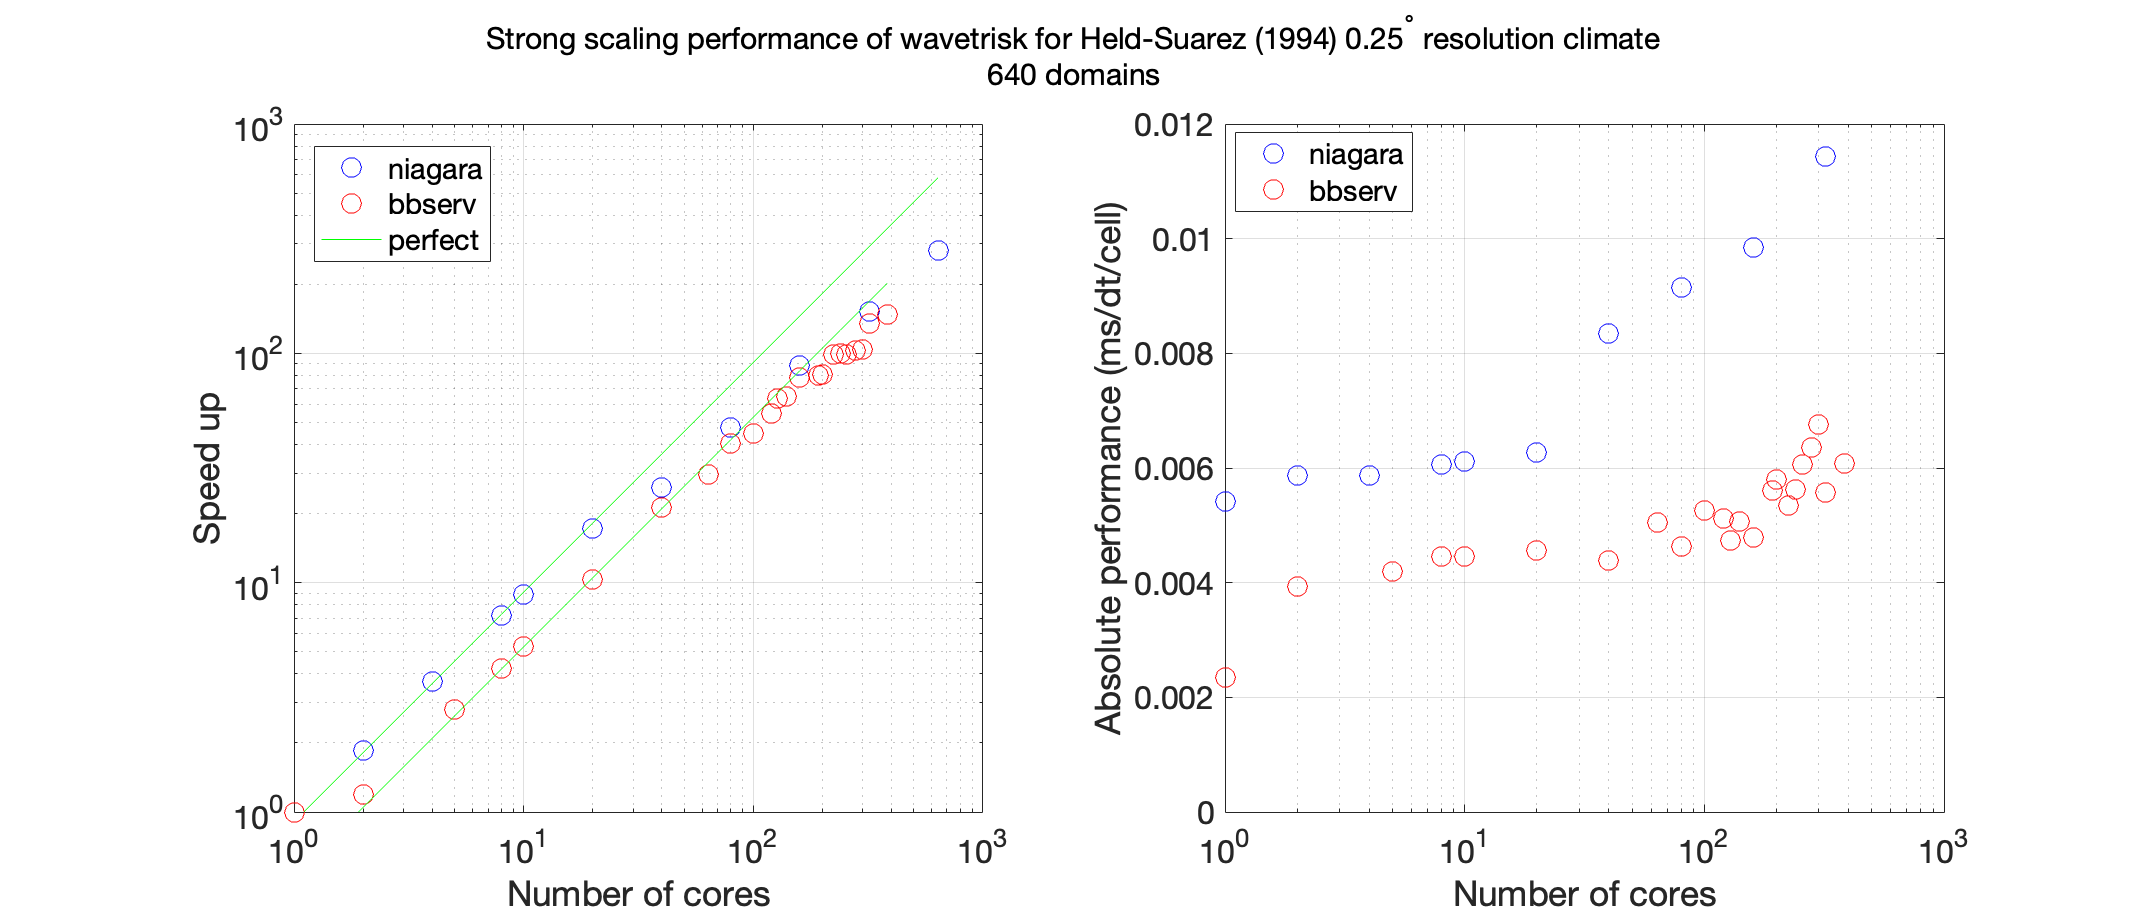
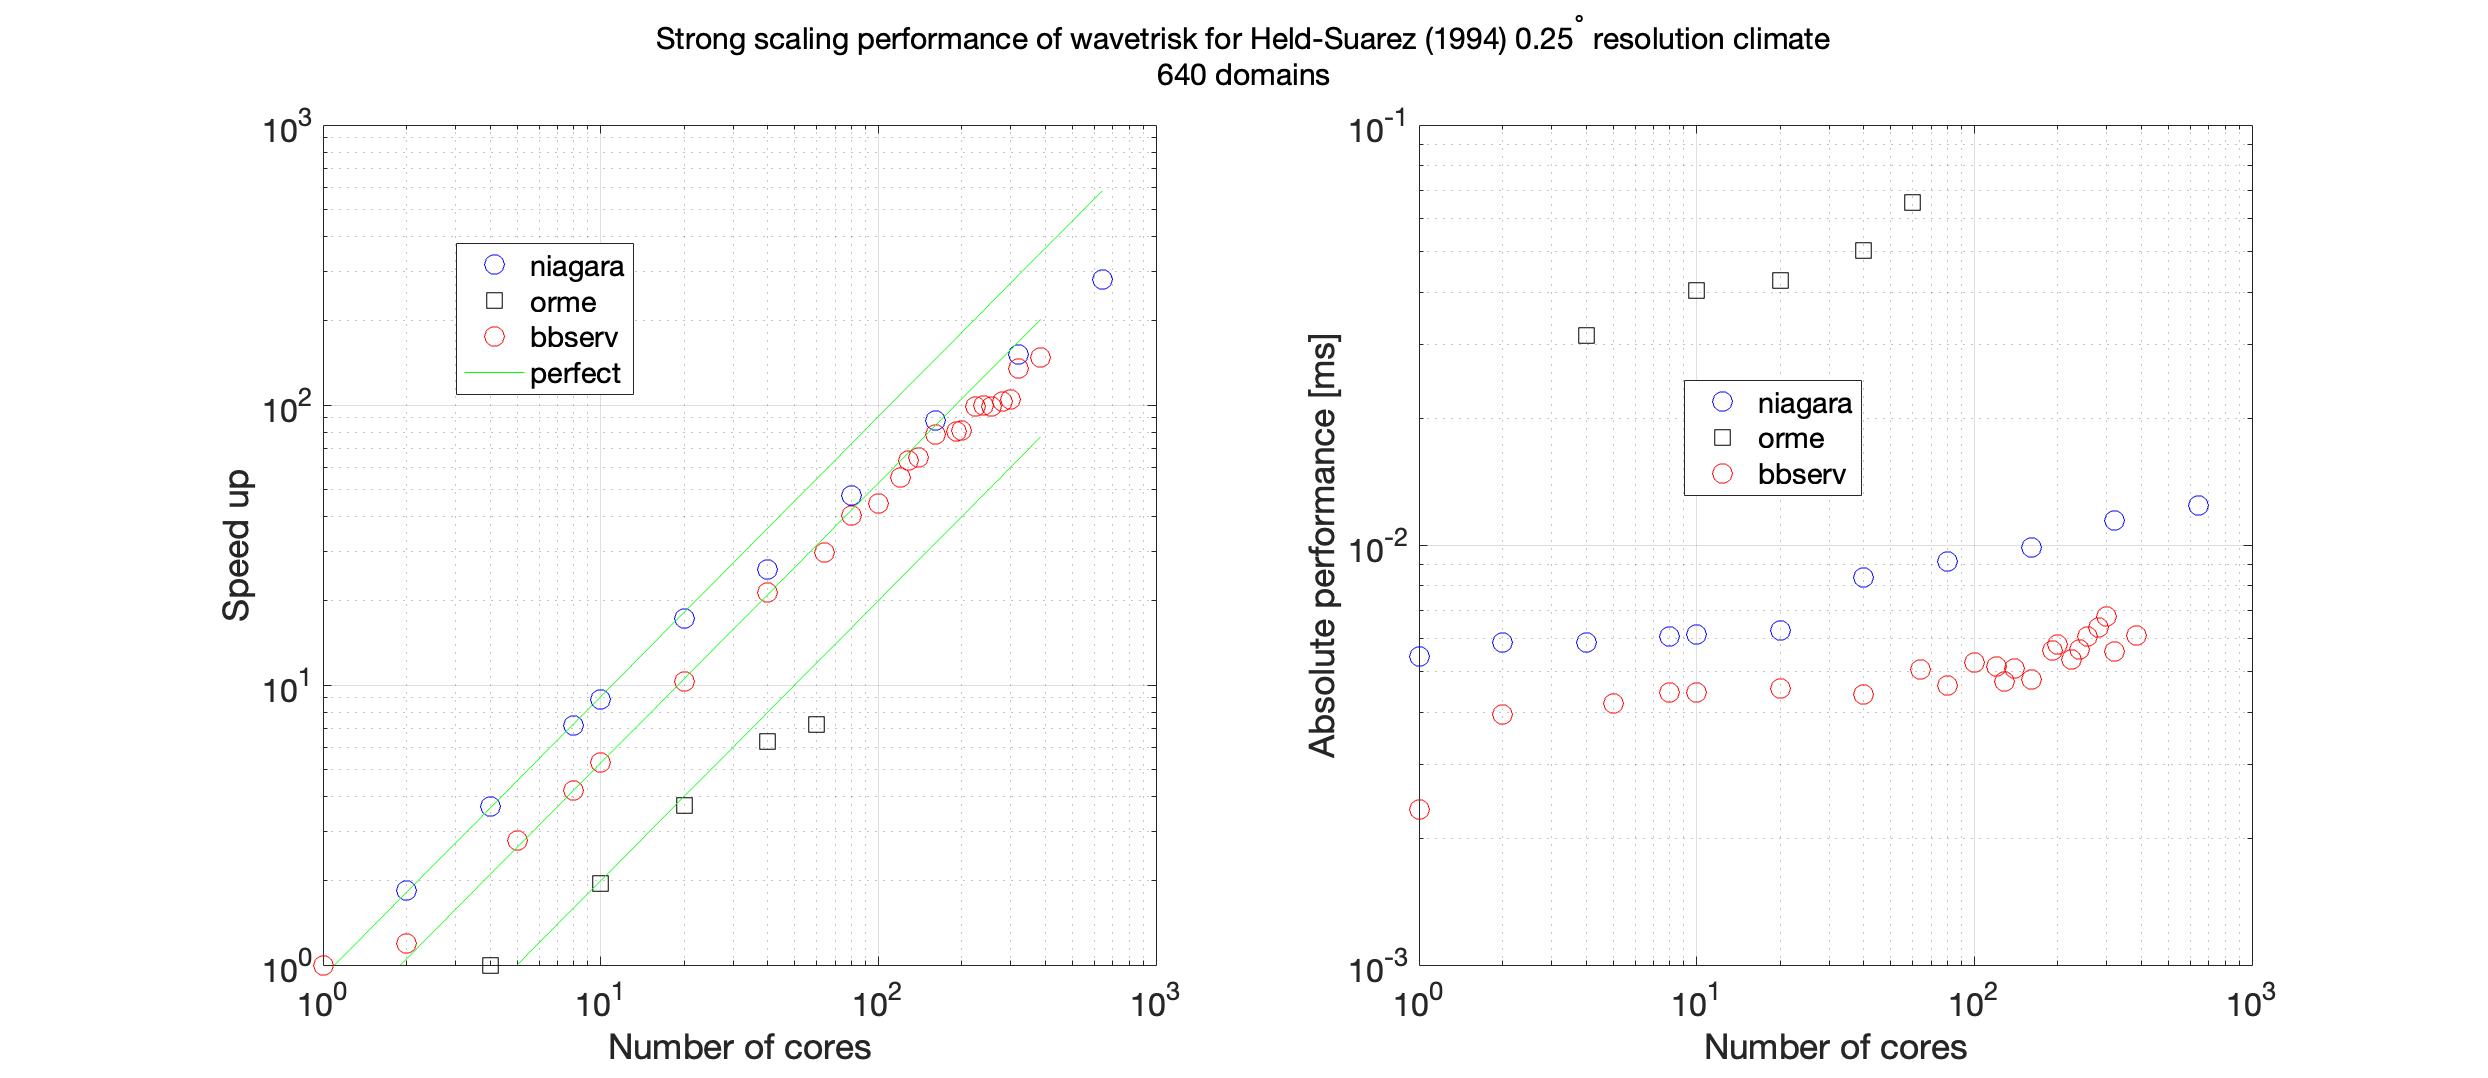
Update scaling with results from orme and revised script.

diff --git a/post/scaling/speedup.m b/post/scaling/speedup.m
@@ -1,59 +1,63 @@
-% Scaling results: J8, 32 layers, 2560 domains. No I/O, no topo.
-clear; close all;
+%
+% Parallel scaling results for bbdserv and niagara
+%
+% Held-Suarez climate test case: J8, 32 layers. No I/O, no topo.
+clear; close all; clc
 J        = 8;                 % scale
 n_col    = 10*4^J + 2;        % number of columns
-nz       = 32;                % number of vertical layers
-n_dt_bb  = 25;                % number of time steps
-n_dt_nia = 10; 
+nz       = 32;                % number of vertical layers 
+n_grid   = n_col * nz         % number of grid points
+
+%
+% 2560 domains
+%
 
 % bbserv
-cores_bb = [2 5 8 10 20 40 64 80 100 120 128 140 160 192 200 224 240 256 280 300 320 384]';
-cpu_bb   = [2509.5 1267.3 942.4 781.6 456.5 215.6 156.6 96.5 75.3 65.0 ...
+n_dt_bb       = 25; 
+cores_bb      = [2 5 8 10 20 40 64 80 100 120 128 140 160 192 200 224 240 256 280 300 320 384]';
+cpu_bb        = [2509.5 1267.3 942.4 781.6 456.5 215.6 156.6 96.5 75.3 65.0 ...
     67.7 56.0 53.3 42.5 35.1 34.1 28.0 26.1 23.1 21.0 18.4 15.8]';
-
 % Linearly extrapolate cpu for one core
-cpu_bb   = [cpu_bb(1) + (cpu_bb(2)-cpu_bb(1))/(cores_bb(2)-cores_bb(1)) * (1 - cores_bb(1)) ; cpu_bb];
-cores_bb = [1 ; cores_bb];
-
-N_bb = nz * n_col./cores_bb; % normalization for absolute performance
-
-speed_up_bb = cpu_bb(1)./cpu_bb;           % speed up
-abs_perf_bb = cpu_bb/n_dt_bb ./N_bb * 1e3; % absolute performace in ms  
+cpu_bb        = [cpu_bb(1) + (cpu_bb(2)-cpu_bb(1))/(cores_bb(2)-cores_bb(1)) * (1 - cores_bb(1)) ; cpu_bb];
+cores_bb      = [1 ; cores_bb];                           
+speed_up_bb   = speed_up (cpu_bb);               
+abs_perf_bb   = abs_perf (cpu_bb, cores_bb, n_grid, n_dt_bb); 
 
 % niagara
-cores_nia = [1 2 4 8 10 20 40 80 160 320 640]';
-cpu_nia   = [2452.40 1865.0 1036.6 558.4 470.3 249.8 152.6 77.3 43.0 21.5 9.88]';
+n_dt_nia      = 10;
+cores_nia     = [1 2 4 8 10 20 40 80 160 320 640]';
+cpu_nia       = [2452.40 1865.0 1036.6 558.4 470.3 249.8 152.6 77.3 43.0 21.5 9.88]';
+speed_up_nia  = speed_up (cpu_nia);               
+abs_perf_nia  = abs_perf (cpu_nia, cores_nia, n_grid, n_dt_nia); 
 
-N_nia = nz * n_col./cores_nia; % absolute performance measure
-
-speed_up_nia = cpu_nia(1)./cpu_nia;
-abs_perf_nia = (cpu_nia/n_dt_nia) ./ N_nia * 1e3;
+% orme
+n_dt_orme     = 10;
+cores_orme    = [5 10 20 40 60]';
+cpu_orme      = [1718.6 937.8 509.2 429.2 263.7]';
+speed_up_orme = speed_up (cpu_orme);               
+abs_perf_orme = abs_perf (cpu_orme, cores_orme, n_grid, n_dt_orme); 
 
 % 2018 runs (non-adaptive and adaptive)
-n_col_nia_old = 10*4^8+2; % number of columns (same as new)
-nz_nia_old    = 30;       % number of layers
-n_dt_nia_old  = 10;       % number of time steps
+nz            = 30;         % number of layers
+ngrid_nia_old = n_col * nz; % number of grid points
+n_dt_nia_old  = 10;         % number of time steps
 
-cores_nia_old = [1 2 4 10 20 40 80 160 320 640 1280 2560]';
-
-cpu_nia_old   = [2.8212E+03 2.3583E+03 1.4431E+03 6.5801E+02 3.8123E+02 1.9202E+02 1.0019E+02 ...
+% non-adaptive
+cores_nia_old          = [1 2 4 10 20 40 80 160 320 640 1280 2560]';
+cpu_nia_old            = [2.8212E+03 2.3583E+03 1.4431E+03 6.5801E+02 3.8123E+02 1.9202E+02 1.0019E+02 ...
     4.2737E+01 2.1890E+01 1.0355E+01 5.3954E+00 3.0428E+00]';
-N_nia_old = nz_nia_old * n_col_nia_old./cores_nia_old; 
+speed_up_nia_old       = speed_up (cpu_nia_old);               
+abs_perf_nia_old       = abs_perf (cpu_nia_old, cores_nia_old, ngrid_nia_old, n_dt_nia_old); 
 
-speed_up_nia_old = cpu_nia_old(1)./cpu_nia_old;
-abs_perf_nia_old = (cpu_nia_old/n_dt_nia_old) ./ N_nia_old * 1e3;
-
-n_col_nia_adapt_old = 13762560/4.5/4; % average value
-nz_nia_adapt_old    = 18;
-n_dt_nia_adapt_old  = 300;
-
-cores_nia_adapt_old = [10 20 40 80 160 320 480 640]';
-cpu_nia_adapt_old   = [11806 7458 4995.6 2416.1 1575.4 1016.3 787.01 355.24]';
-
-N_nia_adapt_old = nz_nia_adapt_old * n_col_nia_adapt_old./cores_nia_adapt_old; 
-
-speed_up_nia_adapt_old = cpu_nia_adapt_old(1)./cpu_nia_adapt_old;
-abs_perf_nia_adapt_old = (cpu_nia_adapt_old/n_dt_nia_adapt_old) ./ N_nia_adapt_old * 1e3;
+% adaptive
+n_col_nia_adapt_old    = 13762560/4.5/4; % average value
+nz_nia_adapt_old       = 18;
+ngrid_nia_adapt_old    = n_col_nia_adapt_old * nz_nia_adapt_old;
+n_dt_nia_adapt_old     = 300;
+cores_nia_adapt_old    = [10 20 40 80 160 320 480 640]';
+cpu_nia_adapt_old      = [11806 7458 4995.6 2416.1 1575.4 1016.3 787.01 355.24]';
+speed_up_nia_adapt_old = speed_up (cpu_nia_adapt_old);               
+abs_perf_nia_adapt_old = abs_perf (cpu_nia_adapt_old, cores_nia_adapt_old, ngrid_nia_adapt_old, n_dt_nia_adapt_old); 
 
 figure
 sgtitle({'Strong scaling performance of wavetrisk for Held-Suarez (1994) 0.25^\circ resolution climate',...
@@ -62,76 +66,82 @@ subplot(1,2,1)
 loglog(cores_nia,           speed_up_nia,           'bo', 'MarkerSize', 10); hold on
 loglog(cores_nia_old,       speed_up_nia_old,       'b*', 'MarkerSize', 10) 
 loglog(cores_nia_adapt_old, speed_up_nia_adapt_old, 'md', 'MarkerSize', 10) 
+loglog(cores_orme,          speed_up_orme,          'ks', 'MarkerSize', 10) 
 loglog(cores_bb,            speed_up_bb,            'ro', 'MarkerSize', 10) 
 
 loglog(cores_nia_old, cores_nia_old/2.5, 'g-')
+loglog(cores_nia_old, cores_nia_old/6,   'g-')
 loglog(cores_nia_old, cores_nia_old/18,  'g-')
 
 %loglog(cores_nia(5:end),cores_nia(5:end)/2.6,'g-')
-legend('niagara','2018 niagara','2018 niagara adapt', 'bbserv','perfect')
+legend('niagara','2018 niagara','2018 niagara adapt', 'orme', 'bbserv','perfect')
 xlabel('Number of cores'); ylabel('Speed up'); grid on; 
 axis([1e0 1e4 1e0 1e4])
 set(gca,'fontsize',16)
 
 subplot(1,2,2)
-semilogx(cores_nia,           abs_perf_nia,           'bo-', 'MarkerSize', 10); hold on
-semilogx(cores_nia_old,       abs_perf_nia_old,       'b*-', 'MarkerSize', 10) 
-semilogx(cores_nia_adapt_old, abs_perf_nia_adapt_old, 'md-', 'MarkerSize', 10)
-semilogx(cores_bb,            abs_perf_bb,            'ro-', 'MarkerSize', 10)
-legend('niagara','2018 niagara','2018 niagara adapt', 'bbserv')
+loglog(cores_nia,           abs_perf_nia,           'bo-', 'MarkerSize', 10); hold on
+loglog(cores_nia_old,       abs_perf_nia_old,       'b*-', 'MarkerSize', 10) 
+loglog(cores_nia_adapt_old, abs_perf_nia_adapt_old, 'md-', 'MarkerSize', 10)
+loglog(cores_orme,          abs_perf_orme,          'ks-', 'MarkerSize', 10)
+loglog(cores_bb,            abs_perf_bb,            'ro-', 'MarkerSize', 10)
+legend('niagara','2018 niagara','2018 niagara adapt', 'orme', 'bbserv')
 xlabel('Number of cores'); ylabel('Absolute performance (ms/dt/cell)'); grid on;
-axis([1e0 1e4 0 0.1])
+axis([1e0 1e4 1e-3 1e-1])
 set(gca,'fontsize',16)
 
-%% 640 domains 
-J      = 8;                 % scale
-n_col  = 10*4^J + 2;        % number of columns
-nz     = 32;                % number of vertical layers
-n_dt_bb  = 25;              % number of time steps
-n_dt_nia = 10;
+%
+% 640 domains 
+%
 
 % bbserv
-cores_bb = [2 5 8 10 20 40 64 80 100 120 128 140 160 192 200 224 240 256 280 300 320 384]';
-cpu_bb   = [1032.4 440.6 291.9 233.4 119.4 57.6 41.4 30.4 27.6 22.4 19.4 19.0 15.7 15.3 15.2 ...
+n_dt_bb      = 25;   
+cores_bb     = [2 5 8 10 20 40 64 80 100 120 128 140 160 192 200 224 240 256 280 300 320 384]';
+cpu_bb       = [1032.4 440.6 291.9 233.4 119.4 57.6 41.4 30.4 27.6 22.4 19.4 19.0 15.7 15.3 15.2 ...
      12.5 12.3 12.4 11.9 11.8 9.12 8.31]';
-
 % Linearly extrapolate cpu for one core
-cpu_bb = [cpu_bb(1) + (cpu_bb(2)-cpu_bb(1))/(cores_bb(2)-cores_bb(1)) * (1 - cores_bb(1)) ; cpu_bb];
-cores_bb = [1 ; cores_bb];
-
-N_bb = nz * n_col./cores_bb; % normalization for absolute performance
-
-speed_up_bb = cpu_bb(1)./cpu_bb;           % speed up
-abs_perf_bb = cpu_bb/n_dt_bb ./N_bb * 1e3; % absolute performace in ms  
+cpu_bb       = [cpu_bb(1) + (cpu_bb(2)-cpu_bb(1))/(cores_bb(2)-cores_bb(1)) * (1 - cores_bb(1)) ; cpu_bb];
+cores_bb     = [1 ; cores_bb];
+speed_up_bb  = speed_up (cpu_bb);               
+abs_perf_bb  = abs_perf (cpu_bb, cores_bb, n_grid, n_dt_bb); 
 
 % niagara
-cores_nia = [1 2 4 8 10 20 40 80 160 320 640]';
-cpu_nia   = [1136.5 615.6 307.6 158.8 128.3 65.7 43.8 24.0 12.9 7.49 4.06]';
+n_dt_nia      = 10;
+cores_nia     = [1 2 4 8 10 20 40 80 160 320 640]';
+cpu_nia       = [1136.5 615.6 307.6 158.8 128.3 65.7 43.8 24.0 12.9 7.49 4.06]';
+speed_up_nia  = speed_up (cpu_nia);               
+abs_perf_nia  = abs_perf (cpu_nia, cores_nia, n_grid, n_dt_nia); 
 
-N_nia = nz * n_col./cores_nia; % normalization for absolute performance
-
-speed_up_nia = cpu_nia(1)./cpu_nia;            % speed up
-abs_perf_nia = cpu_nia/n_dt_nia ./N_nia * 1e3; % absolute performace in ms  
+% orme
+n_dt_orme     = 10;
+cores_orme    = [4 10 20 40 60]';
+cpu_orme      = [1657.8 847.8 447.6 263.8 228.6]';speed_up_orme = speed_up (cpu_orme);               
+abs_perf_orme = abs_perf (cpu_orme, cores_orme, n_grid, n_dt_orme); 
 
 figure
 sgtitle({'Strong scaling performance of wavetrisk for Held-Suarez (1994) 0.25^\circ resolution climate',...
     '640 domains'})
 subplot(1,2,1)
-loglog(cores_nia, speed_up_nia, 'bo', 'MarkerSize', 10); hold on
-loglog(cores_bb,  speed_up_bb,  'ro', 'MarkerSize', 10); 
+loglog(cores_nia, speed_up_nia,    'bo', 'MarkerSize', 10); hold on
+loglog(cores_orme,  speed_up_orme, 'ks', 'MarkerSize', 10); 
+loglog(cores_bb,  speed_up_bb,     'ro', 'MarkerSize', 10);
+
 loglog(cores_nia, cores_nia/1.1, 'g-')
+loglog(cores_bb,  cores_bb/5,    'g-')
 loglog(cores_bb,  cores_bb/1.9,  'g-')
-legend('niagara','bbserv','perfect')
-xlabel('Number of cores'); ylabel('Speed up'); grid on;axis('equal')
+
+legend('niagara','orme','bbserv','perfect')
+xlabel('Number of cores'); ylabel('Speed up'); grid on;
 axis([1e0 1e3 1e0 1e3])
 set(gca,'fontsize',16)
 
 subplot(1,2,2)
-semilogx(cores_nia, abs_perf_nia, 'bo', 'MarkerSize', 10); hold on
-semilogx(cores_bb,  abs_perf_bb,  'ro', 'MarkerSize', 10);
-legend('niagara','bbserv')
-xlabel('Number of cores'); ylabel('Absolute performance (ms/dt/cell)'); grid on; 
-axis([1e0 1e3 0 0.012])
+loglog(cores_nia,  abs_perf_nia,  'bo', 'MarkerSize', 10); hold on
+loglog(cores_orme, abs_perf_orme, 'ks', 'MarkerSize', 10);
+loglog(cores_bb,   abs_perf_bb,   'ro', 'MarkerSize', 10);
+legend('niagara','orme','bbserv')
+xlabel('Number of cores'); ylabel('Absolute performance [ms]'); grid on; 
+axis([1e0 1e3 1e-3 1e-1])
 set(gca,'fontsize',16)
 
 %% Results from other codes (varies from 5e-5 for 8 cores to 1.6e-1 for 32768 cores)
@@ -140,52 +150,50 @@ day  = 24*60^2;    % day in seconds
 
 % Lupo etal (2017)
 clear; clc
-day  = 24*60^2;    % day in seconds
-dt   = 30;         % time step in seconds
-N_dt = 5*day/dt;   % number of time steps in the simulation
-N    = 321*640*32; % number of grid points
-
-abs_perf = @(N, N_dt, cpu, cores) (cpu/N_dt)/N * cores * 1e3; % performance measure in ms
+day   = 24*60^2;    % day in seconds
+dt    = 30;         % time step in seconds
+n_dt  = 5*day/dt;   % number of time steps in the simulation
+n_grid = 321*640*32; % number of grid points
 
 fprintf('\n%s\n\n','Absolute performance from other codes [ms/dt/cell]')
-fprintf('%s %.2e %s\n','Lupo et al (2017):              ', abs_perf (N, N_dt, 42174, 256), '(256 cores)')
-fprintf('%s %.2e %s\n','                                ', abs_perf (N, N_dt, 30337, 128), '(128 cores)')
-fprintf('%s %.2e %s\n','                                ', abs_perf (N, N_dt, 26695,  64), '( 64 cores)')
-fprintf('%s %.2e %s\n','                                ', abs_perf (N, N_dt, 22029,  32), '( 32 cores)')
-fprintf('%s %.2e %s',  '                                ', abs_perf (N, N_dt, 28959,  16), '( 16 cores)')
+fprintf('%s %.2e %s\n','Lupo et al (2017):              ', abs_perf (42174, 256, n_grid, n_dt), '(256 cores)')
+fprintf('%s %.2e %s\n','                                ', abs_perf (30337, 128, n_grid, n_dt), '(128 cores)')
+fprintf('%s %.2e %s\n','                                ', abs_perf (26695,  64, n_grid, n_dt), '( 64 cores)')
+fprintf('%s %.2e %s\n','                                ', abs_perf (22029,  32, n_grid, n_dt), '( 32 cores)')
+fprintf('%s %.2e %s',  '                                ', abs_perf (28959,  16, n_grid, n_dt), '( 16 cores)')
 
 % Zuo et al (2007) benchmark 3
-N_dt  = 200;
-N     = 2048*256*30;
+n_dt  = 200;
+n_grid = 2048*256*30;
 cpu   = 20;
 cores = 8;
-fprintf ('\n\n%s %.2e %s','Zuo et al (2007) benchmark 3:   ',abs_perf(N, N_dt, cpu,  cores), '(8 cores)')
+fprintf ('\n\n%s %.2e %s','Zuo et al (2007) benchmark 3:   ',abs_perf(cpu, cores, n_grid, n_dt), '(8 cores)')
 
 % Wang et al (2005)
-N     = 1024^2*20;
+n_grid     = 1024^2*20;
 cpu   = 327;
 cores = 64;
-N_dt  = 6000;
-fprintf ('\n\n%s %.2e %s\n','Wong et al (2005):              ',abs_perf(N, N_dt, cpu,  cores), '(64 cores)')
+n_dt  = 6000;
+fprintf ('\n\n%s %.2e %s\n','Wong et al (2005):              ',abs_perf(cpu, cores, n_grid, n_dt), '(64 cores)')
 
 % Heinzeller
 NZ = 41;
 
 % 2 km
 cpu = 3585;
-N = 147456002*NZ;
+n_grid = 147456002*NZ;
 cores = 2048*16;
 dt = 5;
-N_dt = 10*60/dt;
-fprintf ('\n%s %.2e %s','Heinzeller:                     ',abs_perf(N, N_dt, cpu,  cores), '(32768 cores,  2 km)')
+n_dt = 10*60/dt;
+fprintf ('\n%s %.2e %s','Heinzeller:                     ',abs_perf(cpu,  cores, n_grid, n_dt), '(32768 cores,  2 km)')
 
 % 120 km
-N = 40962*NZ;
+n_grid = 40962*NZ;
 dt = 150;
-N_dt = day/dt;
+n_dt = day/dt;
 cores = 160;
 cpu   = 236;
-fprintf ('\n%s %.2e %s\n','                                ',abs_perf(N, N_dt, cpu,  cores), '(160 cores, 120 km)')
+fprintf ('\n%s %.2e %s\n','                                ',abs_perf(cpu,  cores, n_grid, n_dt), '(160 cores, 120 km)')
 
 % Jablonowski and Williamson (2006)
 core = 32;         % number of cores
@@ -194,17 +202,30 @@ NZ   = 26;         % number of vertical levels
 % CAM3 Euler
 cpu = 483;
 dt  = 300; 
-N   = 256*512*NZ;
-fprintf ('\n%s %.2e %s\n','Jablonowski & Williamson (2006):', abs_perf(N, day/dt, cpu,  cores), '(32 cores, CAM3 Euler)')
+n_grid   = 256*512*NZ;
+fprintf ('\n%s %.2e %s\n','Jablonowski & Williamson (2006):', abs_perf(cpu,  cores, n_grid, day/dt), '(32 cores, CAM3 Euler)')
 
 % CAM3 finite volume
 cpu = 625;
 dt  = 90;
-N   = 361*576*NZ;
-fprintf ('%s %.2e %s\n','                                ', abs_perf(N, day/dt, cpu,  cores), '(32 cores, CAM3 FV)')
+n_grid   = 361*576*NZ;
+fprintf ('%s %.2e %s\n','                                ', abs_perf(cpu,  cores, n_grid, day/dt), '(32 cores, CAM3 FV)')
 
 % GME 
 cpu = 325;
 dt  = 200;
-N   = 163842*NZ; 
-fprintf ('%s %.2e %s\n\n','                                ', abs_perf(N, day/dt, cpu,  cores), '(32 cores, GME)')
+n_grid   = 163842*NZ; 
+fprintf ('%s %.2e %s\n\n','                                ', abs_perf(cpu, cores, n_grid, day/dt), '(32 cores, GME)')
+
+
+%%% Functions
+
+function perf = abs_perf (cpu, cores, n_grid, n_dt)
+% Absolute performance (ms/dt)
+perf = (cpu/n_dt) ./ (n_grid./cores) * 1e3;
+end
+
+function speed = speed_up (cpu)
+% Speed up
+speed = cpu(1)./cpu;
+end
